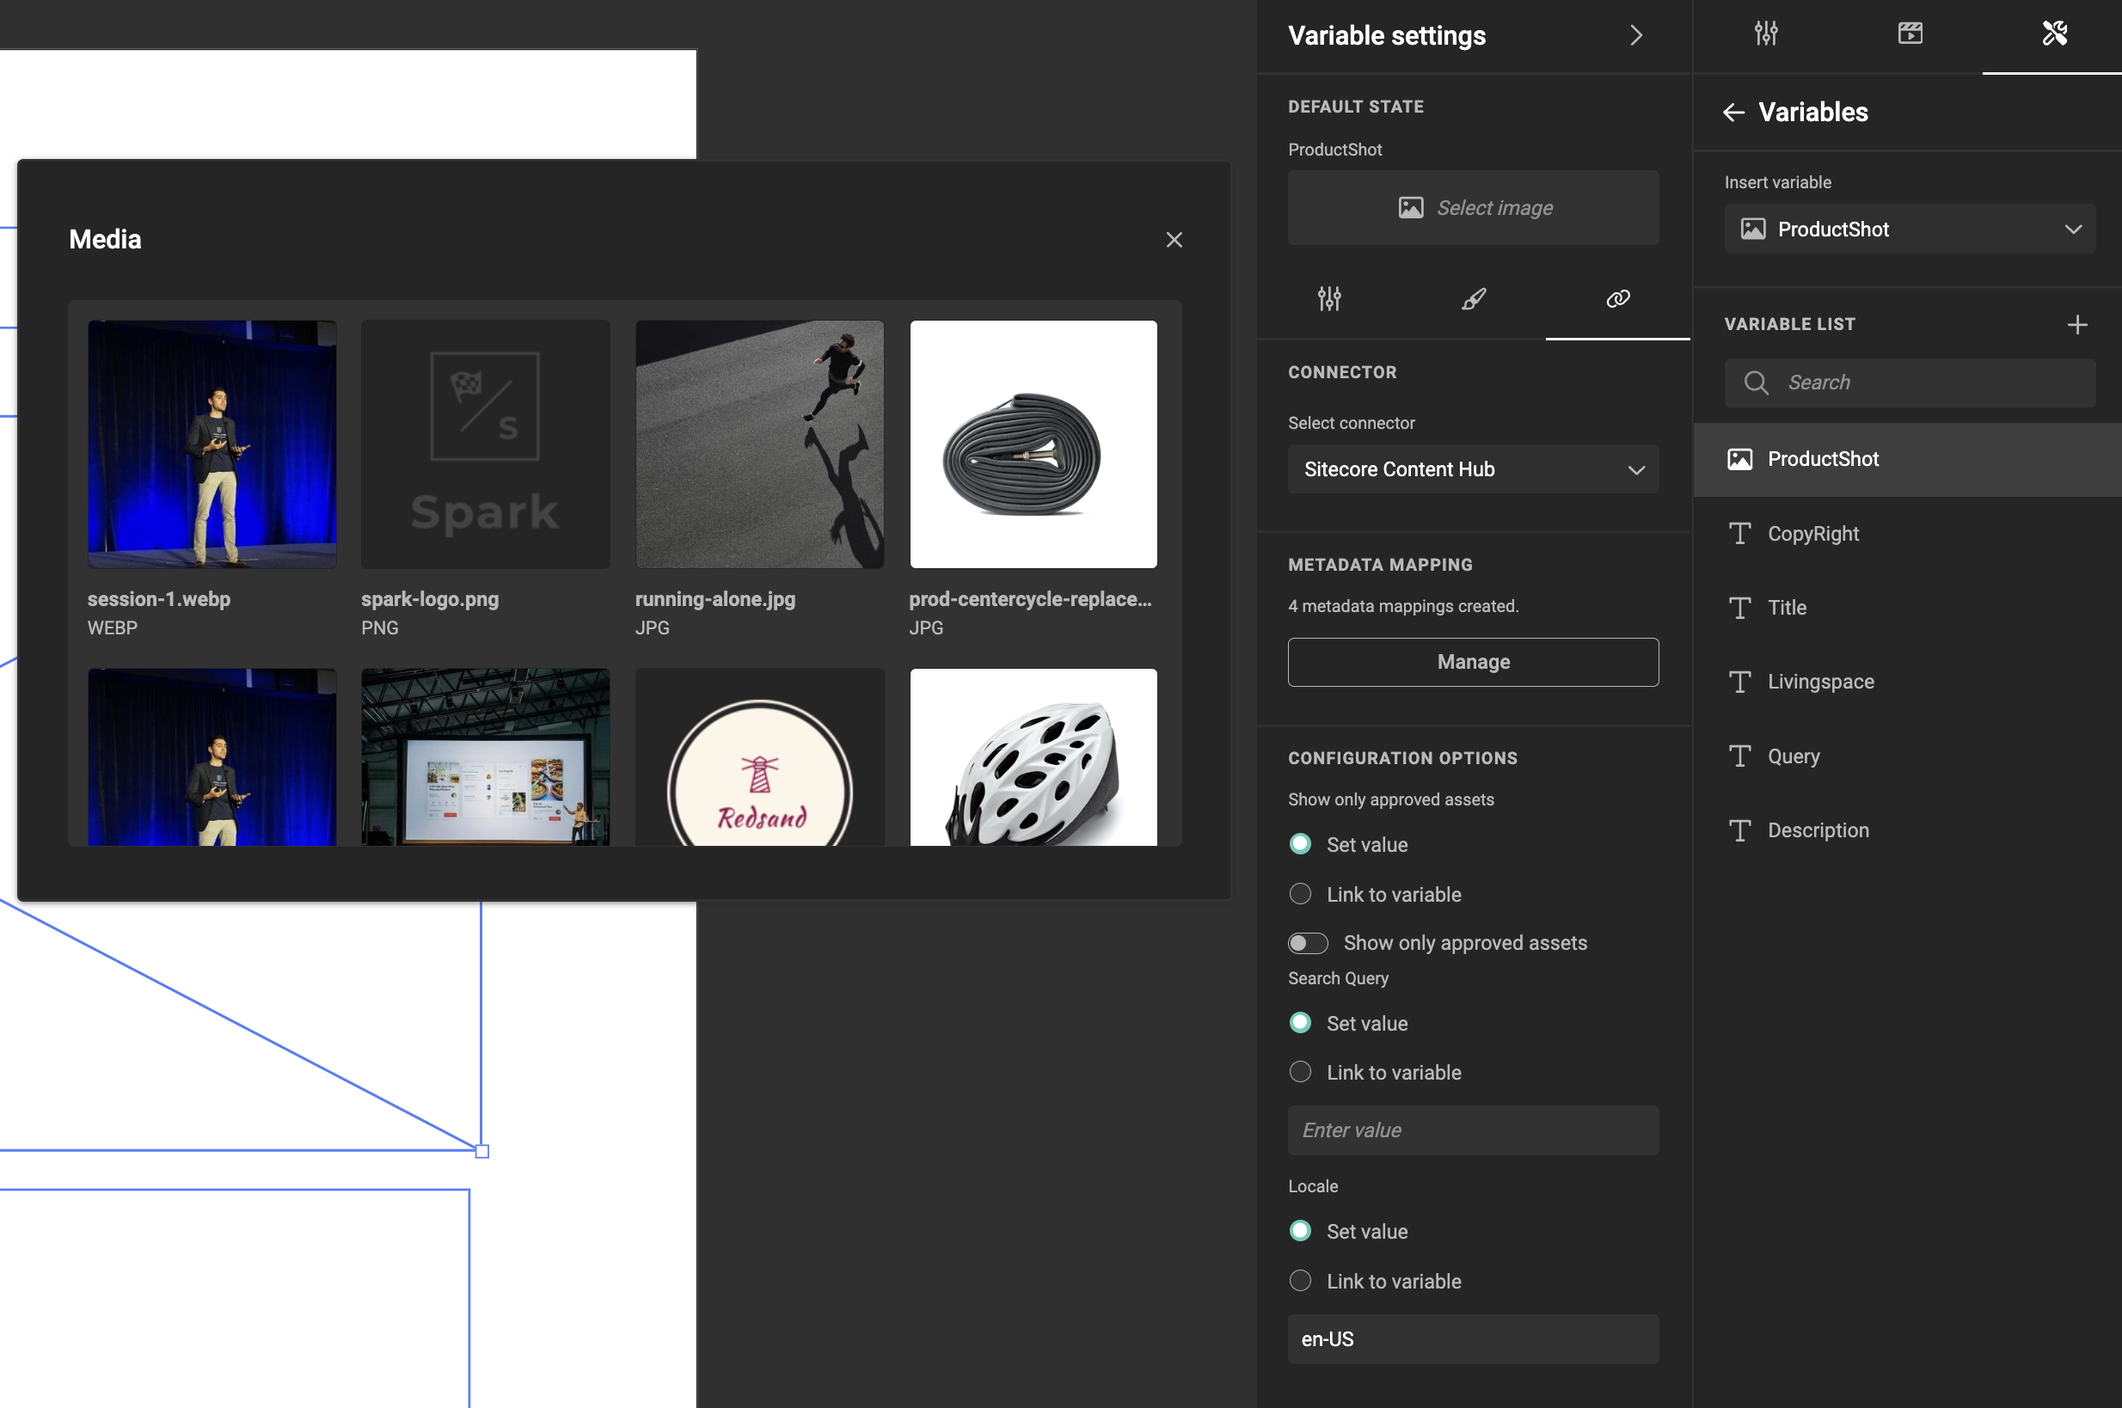
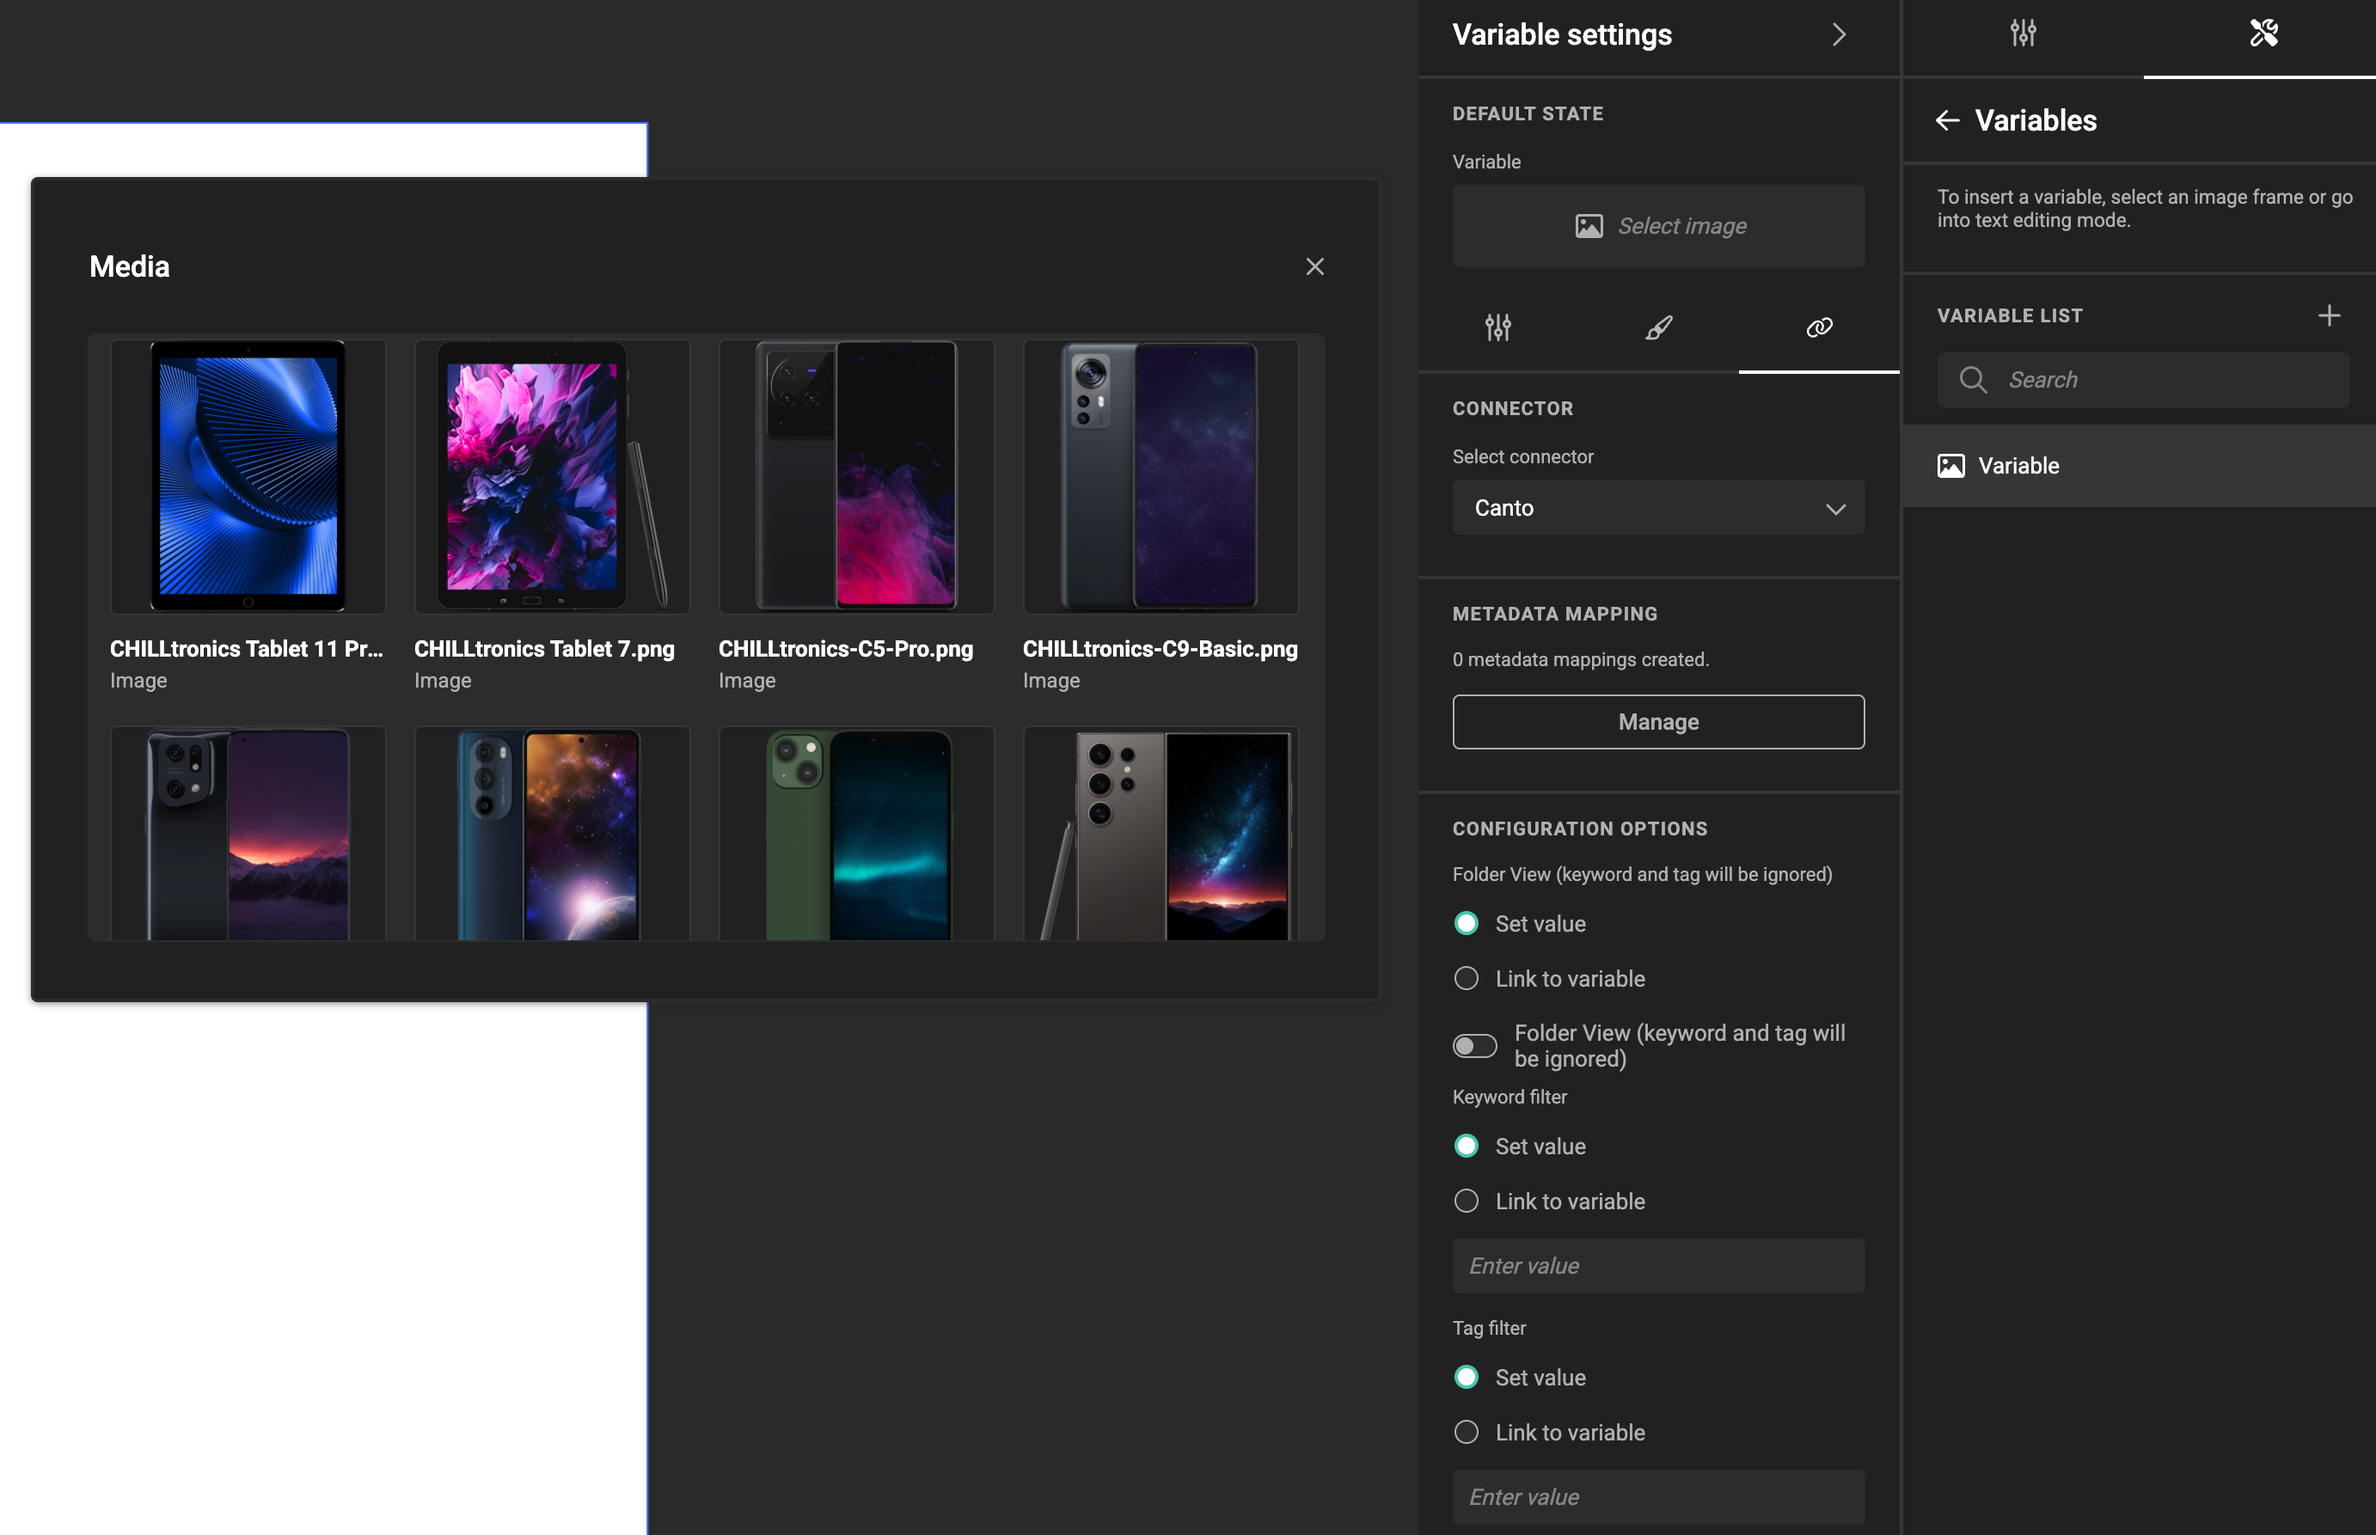
v2

diff --git a/docs/GraFx-Studio/connectors/connector-canto/index.md b/docs/GraFx-Studio/connectors/connector-canto/index.md
@@ -82,37 +82,52 @@ Consult your Canto System Admin for assistance in configuring these fields.
 
 ![screenshot-full](sch09.png)
 
-Depending on the configuration, you may need to authenticate.
-
-![screenshot-full](sch10.png)
-
-- Once authenticated, Sitecore assets behave like any other asset in GraFx Studio.
-
 ### Image Variables
 
-When using [image variables](/GraFx-Studio/guides/template-variables/assign/#assign-template-variable-to-image-frame), you will see the same list of assets when selecting an image.
+When using [image variables](/GraFx-Studio/guides/template-variables/assign/#assign-template-variable-to-image-frame), you will see the same grid of assets when selecting an image, except is you have set configuration options (see below).
 
 ![screenshot-full](var01.png)
 
+### Metadata mapping
+
+See [Concept of metadata mapping](/GraFx-Studio/concepts/connectors-media/#concept-2-making-assets-available-and-exposing-metadata) for more details
+
+![screenshot](var02.png)
+
 ### Configuration Options
 
-#### Introduction
+![screenshot](var03.png)
 
-To filter the assets suggested to template users, you can use categories, keywords, or other search parameters.
+To filter the assets suggested to template users, you can use several methods.
 
-Canto supports search queries through its query language. Consult the [Sitecore Documentation](https://doc.sitecore.com/ch/en/developers/cloud-dev/generic-properties.html) or your Canto Administrator for guidance.
+#### Folder View
 
-#### How To
+When set to True, Keyword and tag will be ignored, and you'll be able to browse through the assets as you would browse through folders.
 
-Queries are set at the variable level.
+#### Keyword filter
 
-Set the query value in the connector settings.
+When set, this keyword will be used to filte matching assets.
 
-![screenshot-full](var02.png)
+#### Tag filter
 
-For more dynamic queries, you can use [variables](/GraFx-Studio/concepts/variables/), [actions](/GraFx-Studio/concepts/actions/), and [GraFx Genie](/GraFx-Studio/concepts/grafx-genie/) to automate and refine your queries.
+When set, this tag will be used to filte matching assets.
 
-#### Other Configuration Options
+#### Album filter
 
-- **Show Only Approved Assets**: Displays only assets that have been approved in Canto.
-- **Locale**: Filters assets by region or language.
+When set, only assets from that album will be presented. 
+
+!!! important "Use the ID"
+    For the Album filter, you need to set the album ID.  
+    You'll find the ID in the URL when browsing your albums in Canto.  
+    
+    ![screenshot](var04.png)
+
+#### Only show approved
+
+When set to True, this will filter out all the non-approved assets.
+
+#### Fail Loading and Output if not approved
+
+Imagine the scenario where you used an approved asset before. And since the last use of the template, the used asset has been set to "not approved".
+
+When this option is set, the loading, and also the output from GraFx Studio will fail. This helps to avoid outputting non approved assets.
